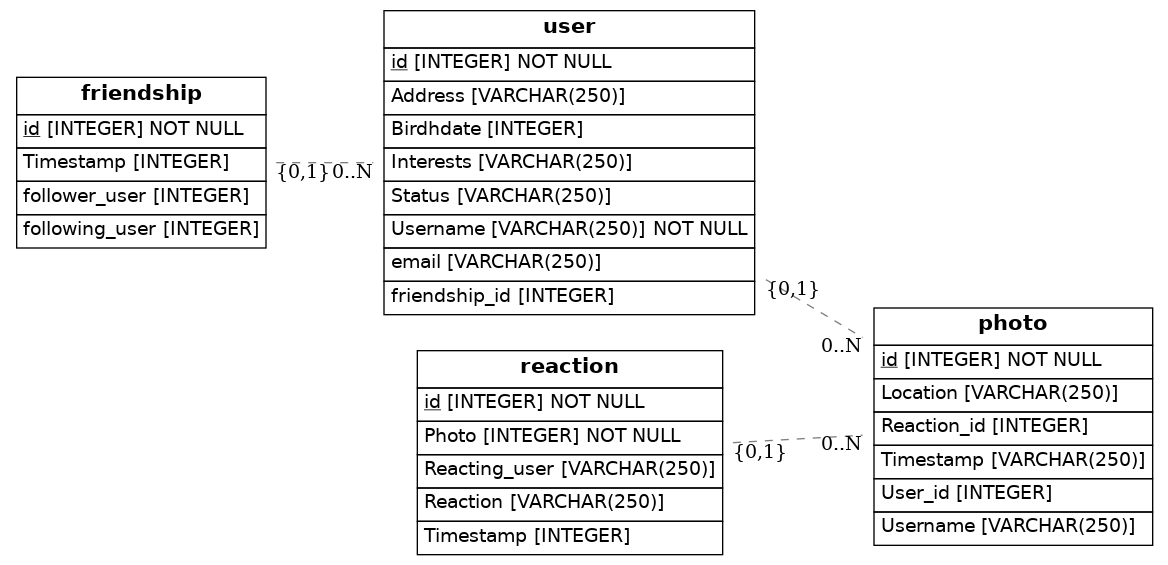
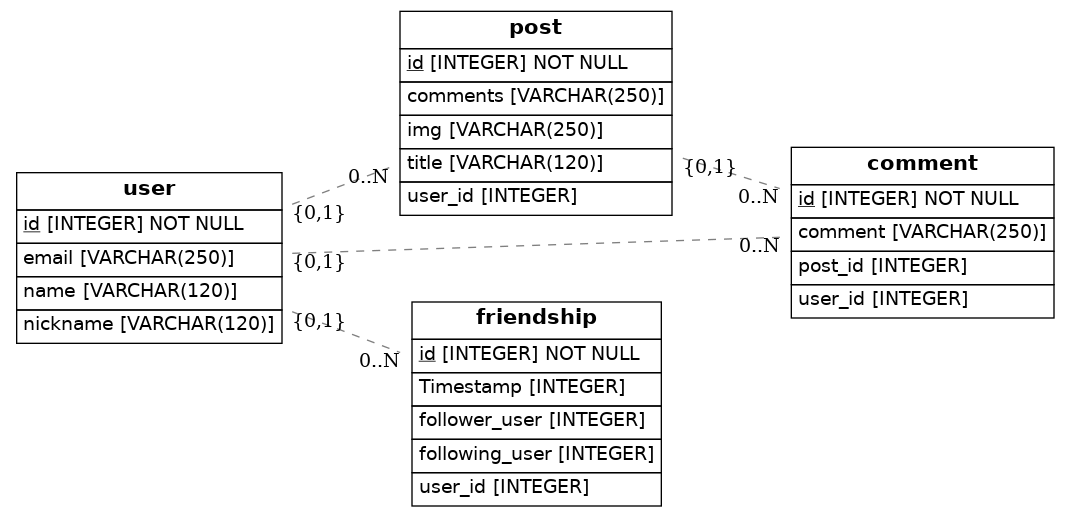
fin

Changed region(s): [[0.0, 0.0, 0.9878, 0.9922]]

diff --git a/src/models.py b/src/models.py
@@ -8,46 +8,40 @@ from eralchemy2 import render_er
 
 Base = declarative_base()
 
+class User(Base):
+    __tablename__= 'user'
+    id = Column(Integer, primary_key = True)
+    name = Column(String(120))
+    email = Column(String(250))
+    nickname = Column(String(120))
+
+class Post(Base):
+    __tablename__= 'post'
+    id = Column(Integer, primary_key = True)
+    title = Column(String(120))
+    img = Column(String(250))
+    comments = Column(String(250))
+    user_id = Column(Integer, ForeignKey('user.id'))
+    user = relationship(User)
+
+class Comment(Base):
+    __tablename__= 'comment'
+    id = Column(Integer, primary_key = True)
+    user_id = Column(Integer, ForeignKey('user.id'))
+    post_id = Column(Integer, ForeignKey('post.id'))
+    comment = Column(String(250))
+    user = relationship(User)
+    post = relationship(Post)
+
 class Friendship(Base):
     __tablename__= 'friendship'
     id = Column(Integer, primary_key=True)
     following_user = Column(Integer)
     follower_user = Column(Integer)
     Timestamp = Column(Integer)
+    user_id = Column(Integer, ForeignKey('user.id'))
+    user = relationship(User)
     
-
-class User(Base):
-    __tablename__= 'user'
-    id = Column(Integer, primary_key=True)
-    Username = Column(String(250), nullable=False)
-    email = Column(String(250))
-    Birdhdate = Column(Integer)
-    Address = Column(String(250))
-    Status = Column(String(250))
-    Interests = Column(String(250))
-    friendship_id = Column(Integer, ForeignKey('friendship.id'))
-    friendship = relationship(Friendship)  
-
-class Reaction(Base):
-    __tablename__= 'reaction'
-    id = Column(Integer, primary_key=True)
-    Photo = Column(Integer, nullable=False)
-    Reaction = Column(String(250))
-    Reacting_user = Column(String(250))
-    Timestamp = Column(Integer)
-    
-
-class Photo(Base):
-    __tablename__= 'photo'
-    id = Column(Integer, primary_key=True)
-    Username = Column(String(250))
-    Timestamp = Column(String(250))
-    Location = Column(String(250))
-    User_id = Column(Integer, ForeignKey('user.id'))
-    User = relationship(User)
-    Reaction_id = Column(Integer, ForeignKey('reaction.id'))
-    Reaction = relationship(Reaction)
- 
 
     def to_dict(self):
         return {}
